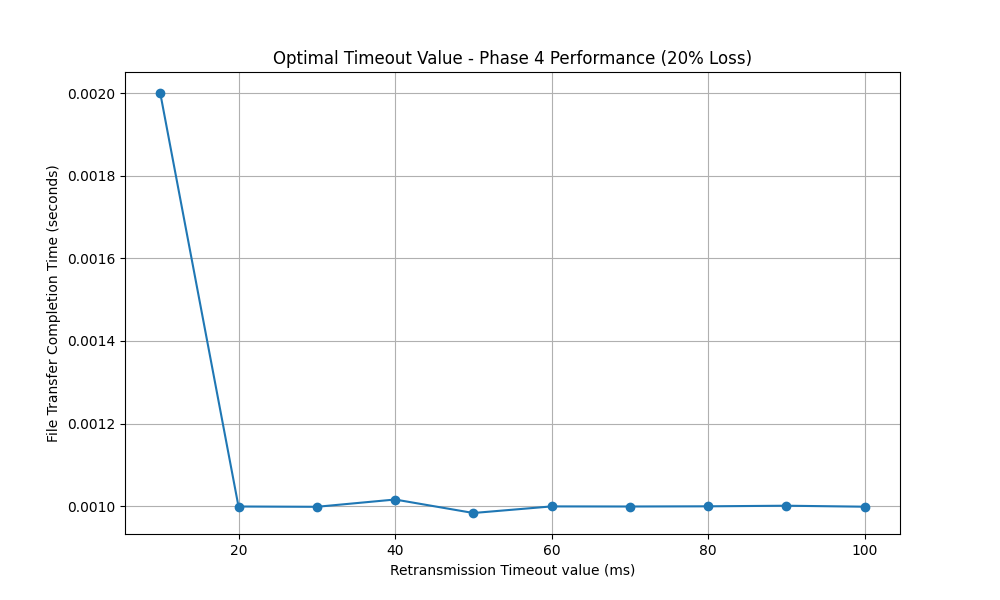
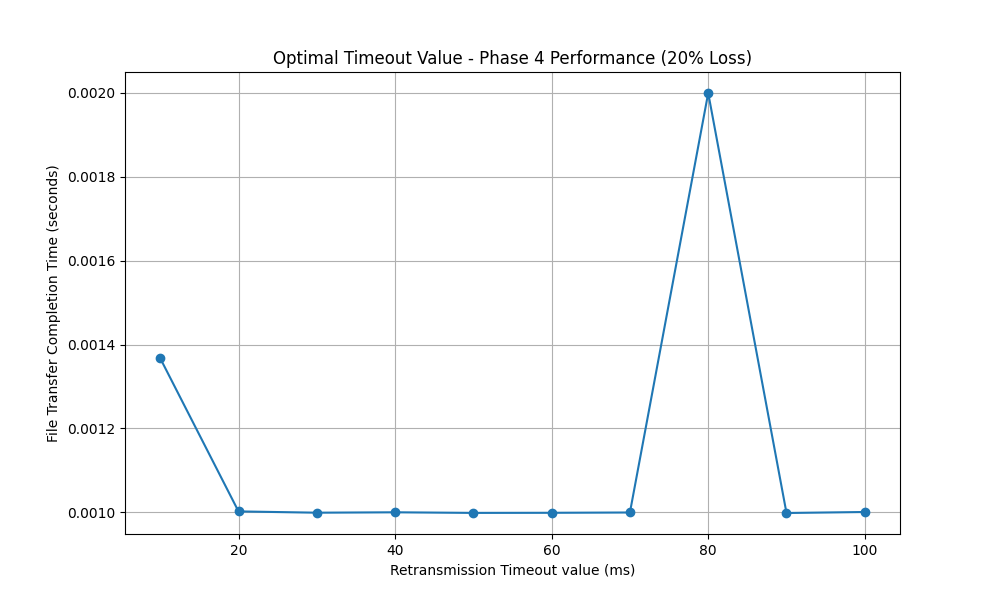
Add files via upload

diff --git a/section_1/src/sender.py b/section_1/src/sender.py
@@ -238,3 +238,33 @@ if __name__ == "__main__":
     print("Chart 3 saved as phase4_optimal_window_size.png")
 
     print("\nRemember to implement the logic for Chart 4 (Performance comparison of different phases) separately.")
+
+    # --- Performance Measurement for Chart 4 (Performance Comparison) ---
+print("\nRunning performance measurement for Chart 4 (Performance Comparison)...")
+fixed_loss_probability = 0.2  # 20% loss
+
+# Replace these placeholders with actual measurements when implementing the respective phases
+completion_time_phase2 = 0  # Replace with actual measurement for Phase 2
+completion_time_phase3 = 0  # Replace with actual measurement for Phase 3
+completion_time_phase4 = run_experiment(sender_host, sender_port, file_to_transfer, window_size, fixed_loss_probability)
+completion_time_udp = 0  # Replace with actual measurement for UDP (if implemented)
+completion_time_selective_repeat = 0  # Replace with actual measurement for Selective Repeat (if implemented)
+
+phases = ['Phase 2', 'Phase 3', 'Phase 4']
+times = [completion_time_phase2, completion_time_phase3, completion_time_phase4]
+
+if completion_time_selective_repeat > 0:
+    phases.append('Selective Repeat')
+    times.append(completion_time_selective_repeat)
+if completion_time_udp > 0:
+    phases.append('UDP')
+    times.append(completion_time_udp)
+
+plt.figure(figsize=(10, 6))
+plt.bar(phases, times, color='skyblue')
+plt.xlabel("Phase")
+plt.ylabel("File Transfer Completion Time (seconds)")
+plt.title("Performance Comparison of Different Phases (20% Loss)")
+plt.grid(axis='y')
+plt.savefig("phase4_comparison.png")
+print("Chart 4 saved as phase4_comparison.png")
